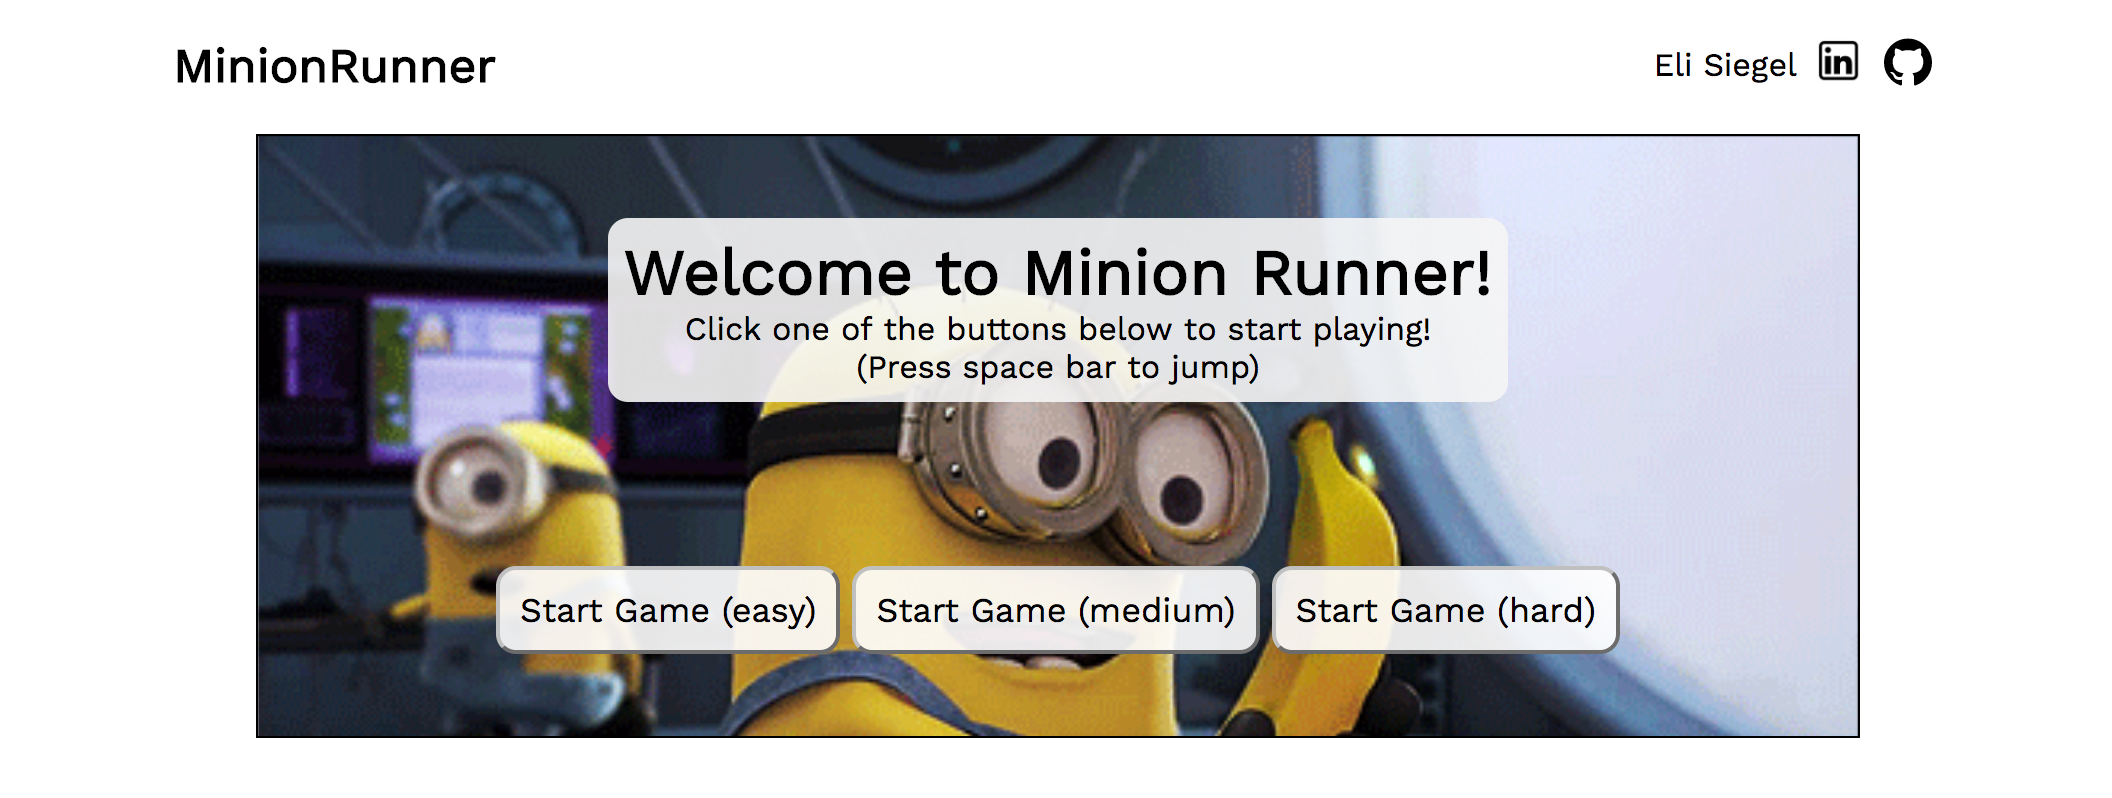
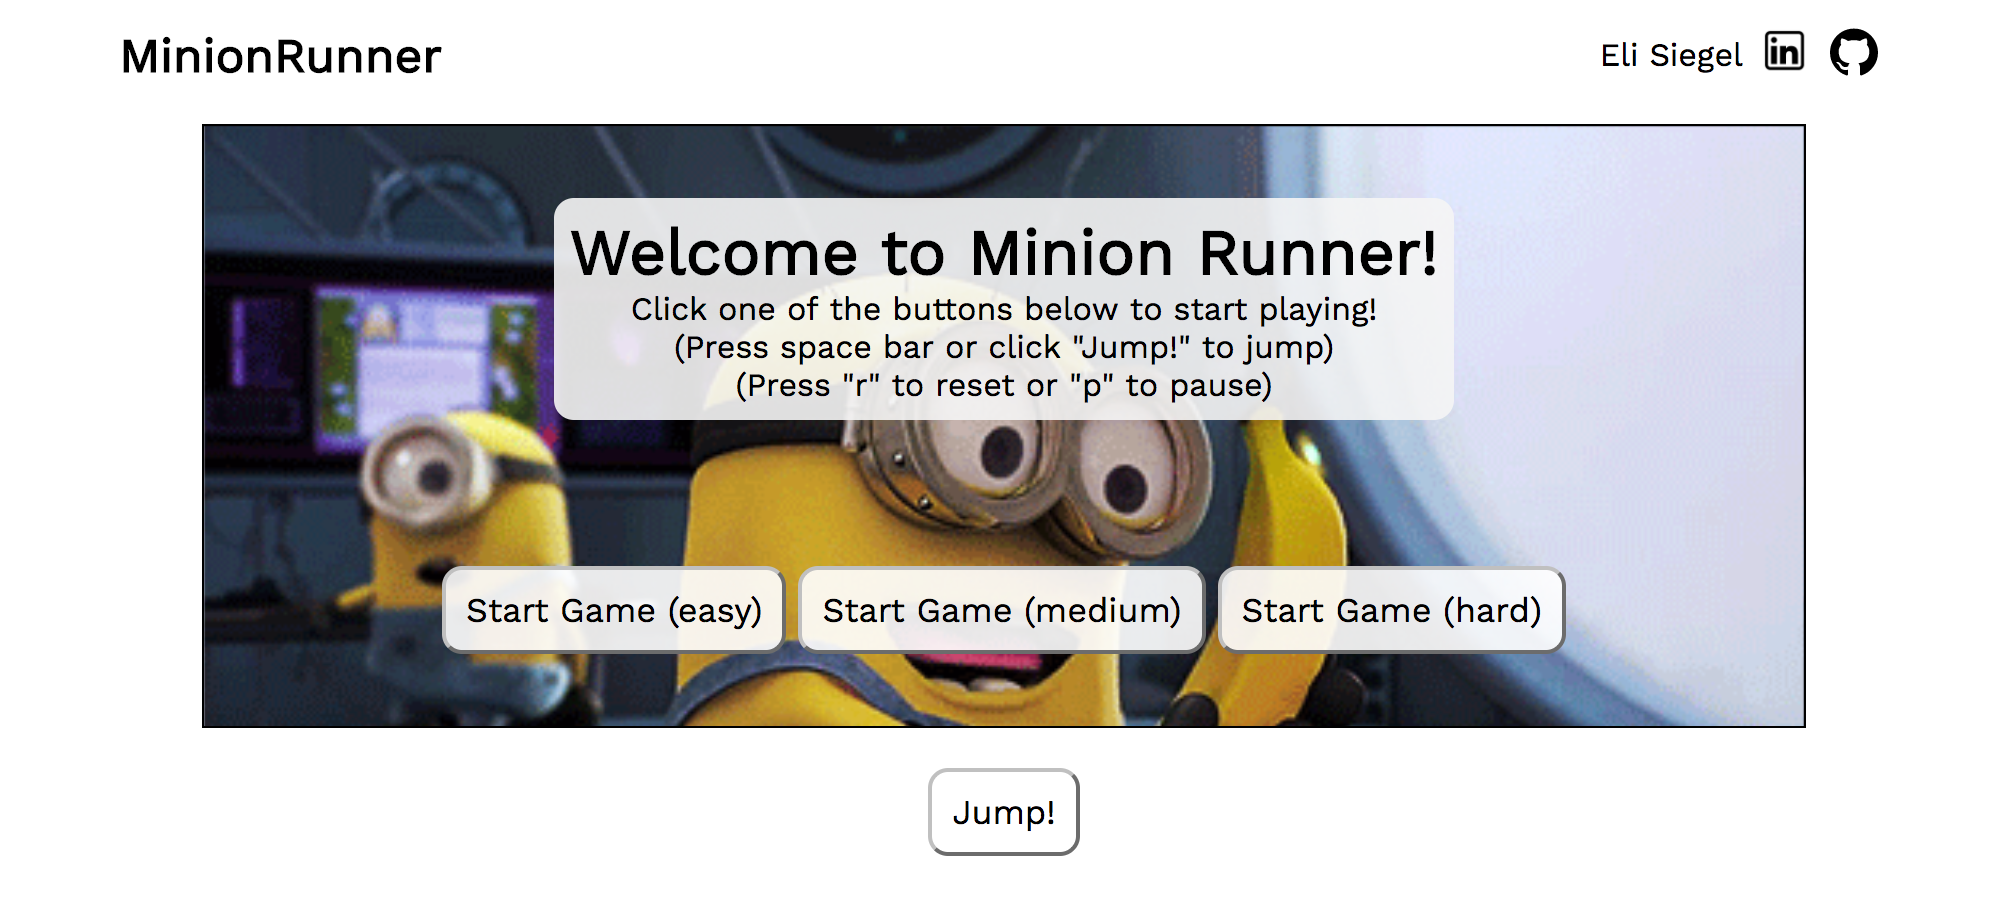
Update readme and home image

diff --git a/README.md b/README.md
@@ -14,7 +14,27 @@ You, a minion, have just seen a truck full of bananas pass by and can't miss thi
 
 ### How to Play
 
-Choose a level of difficulty and start to play. Avoid hitting various obstacles by hitting `SPACE`. Press `p` to pause the game and `r` to restart the game once the game is over. Click on the screen to mute all gameplay audio. 
+Choose a level of difficulty and start to play. Avoid hitting various obstacles by hitting `SPACE` or by clicking the `Jump!` button. Press `p` to pause the game and `r` to restart the game once the game is over. Click on the screen to mute all gameplay audio. 
+
+User interaction with the game was implemented with event listeners on the keyboard written in vanilla JavaScript.
+
+```javascript
+  document.addEventListener('keydown', (e) => {
+    switch (e.keyCode) {
+      case 32: 
+        this.activateJump(); 
+        break;
+      case 82:
+        if (this.gameOver === true) {
+          this.resetGame();
+        }
+        break;
+      case 80:
+        this.togglePause();
+        break;
+    }
+  });
+```
 
 ### Features
 
